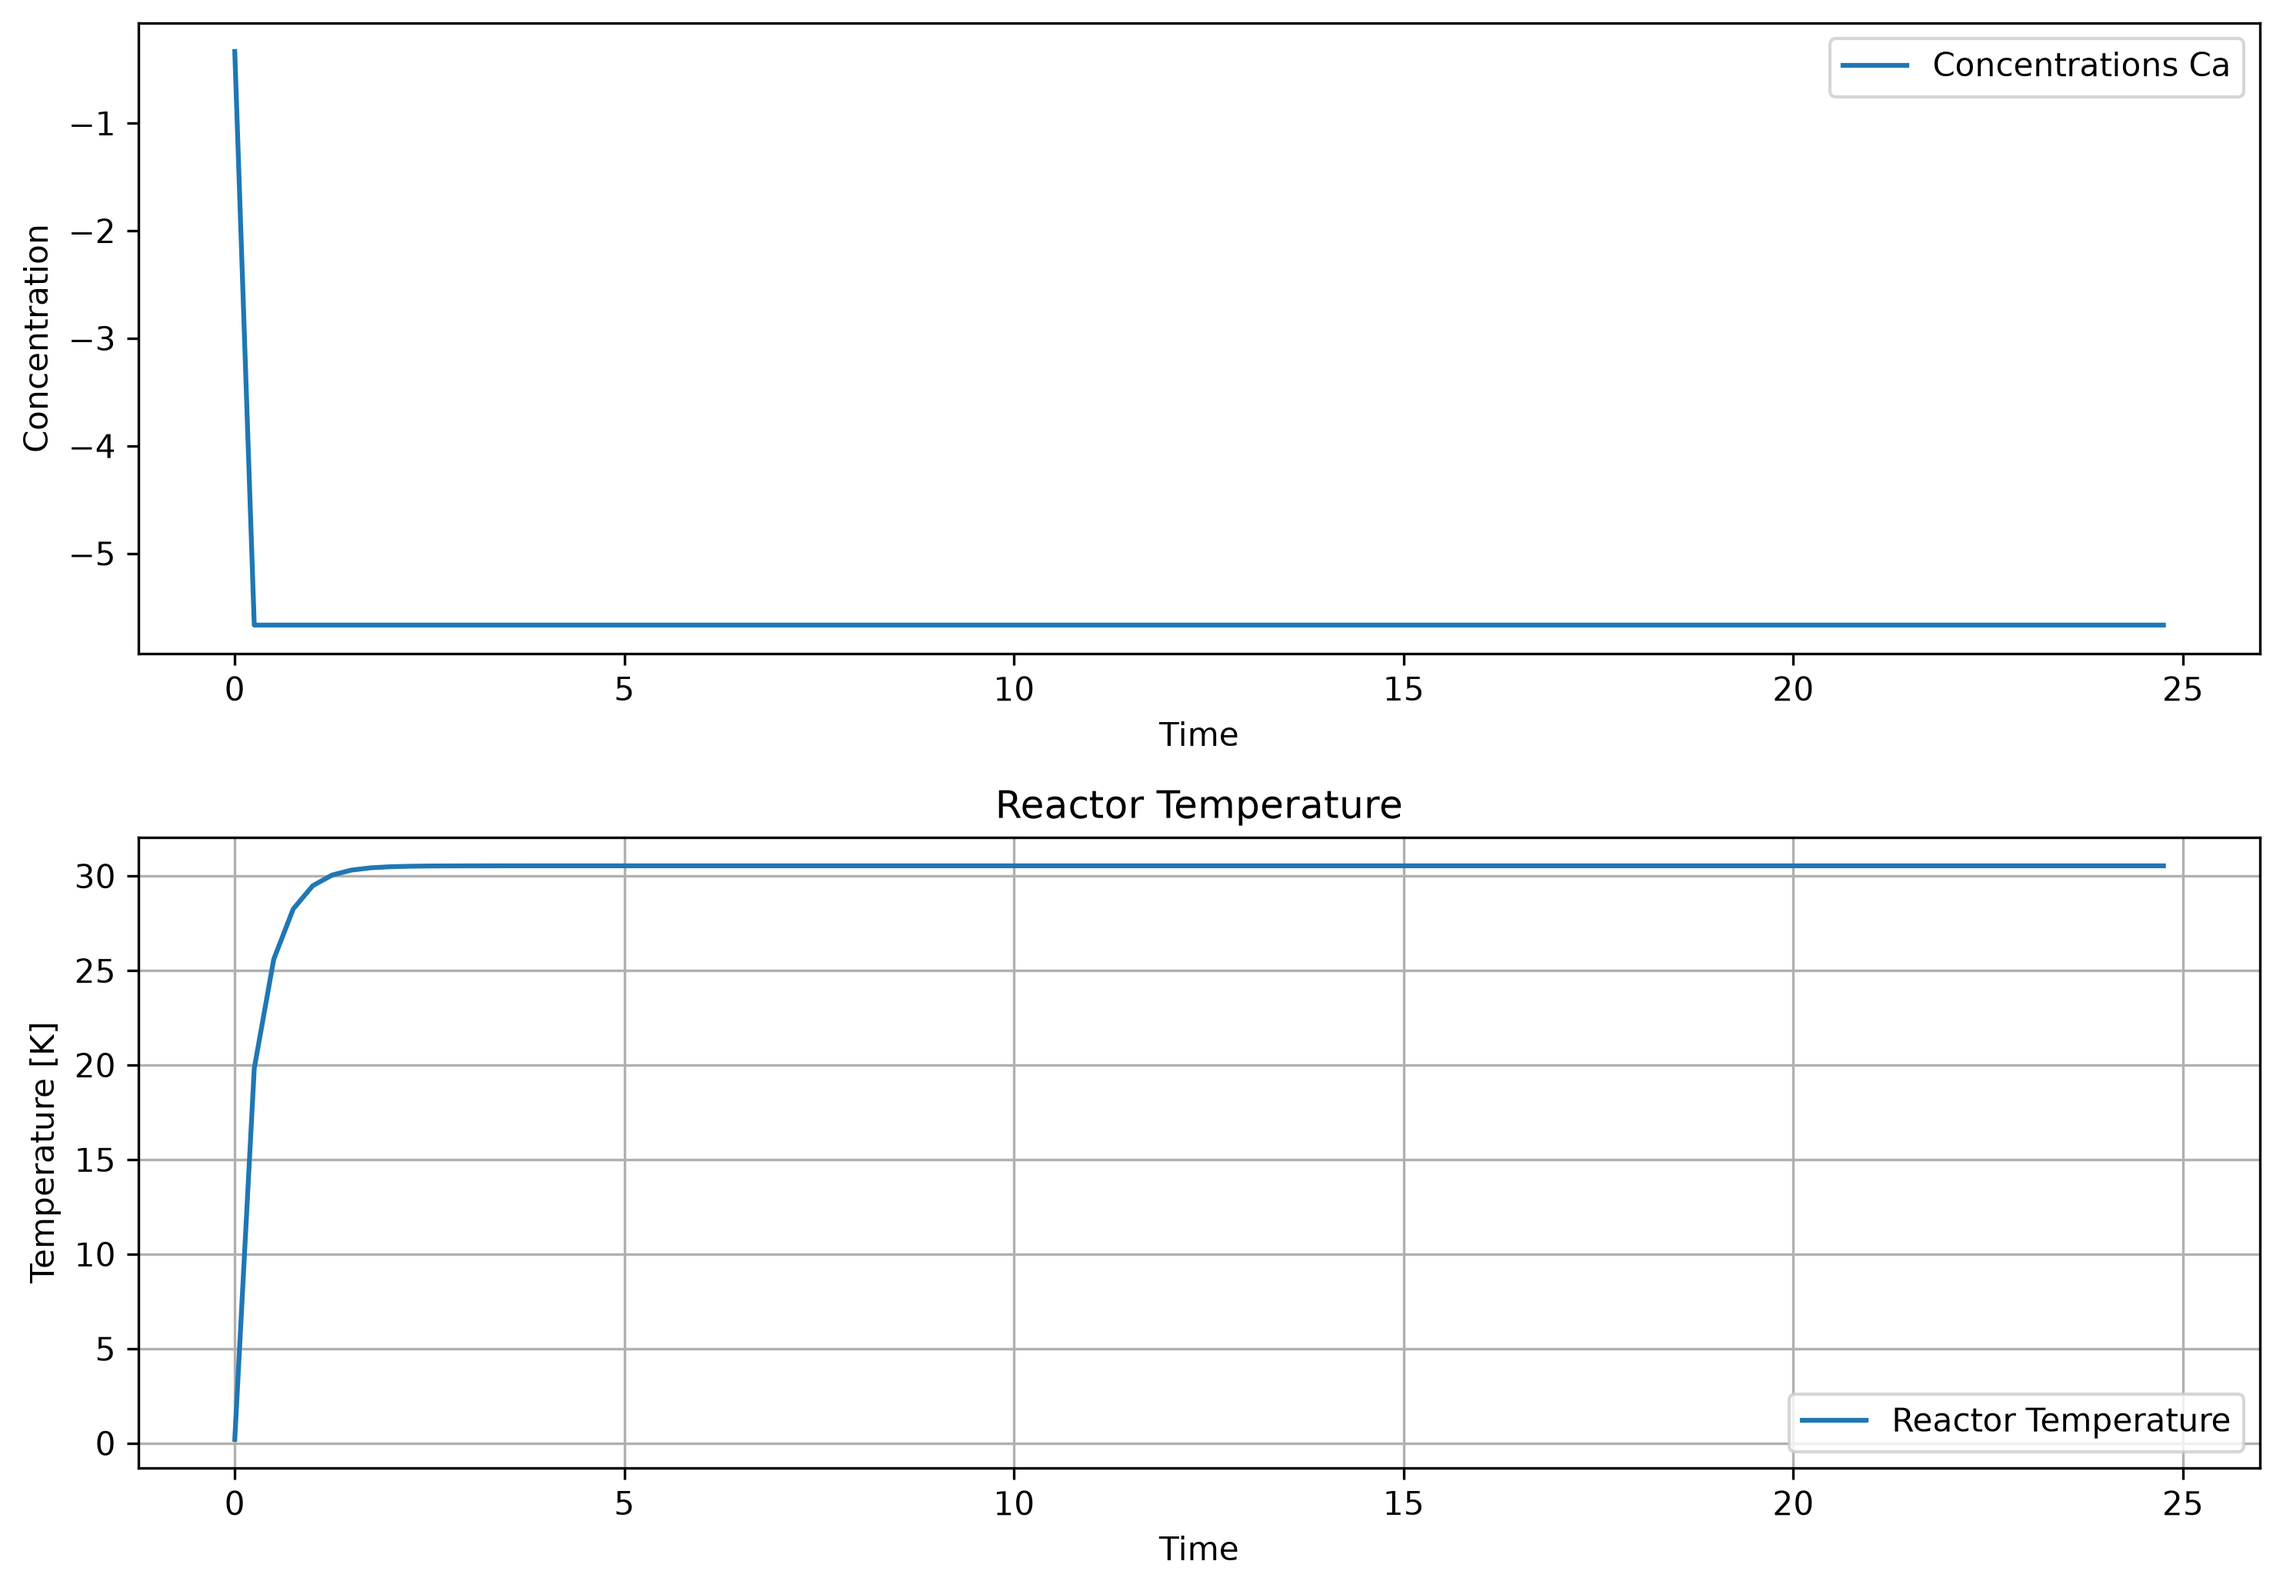
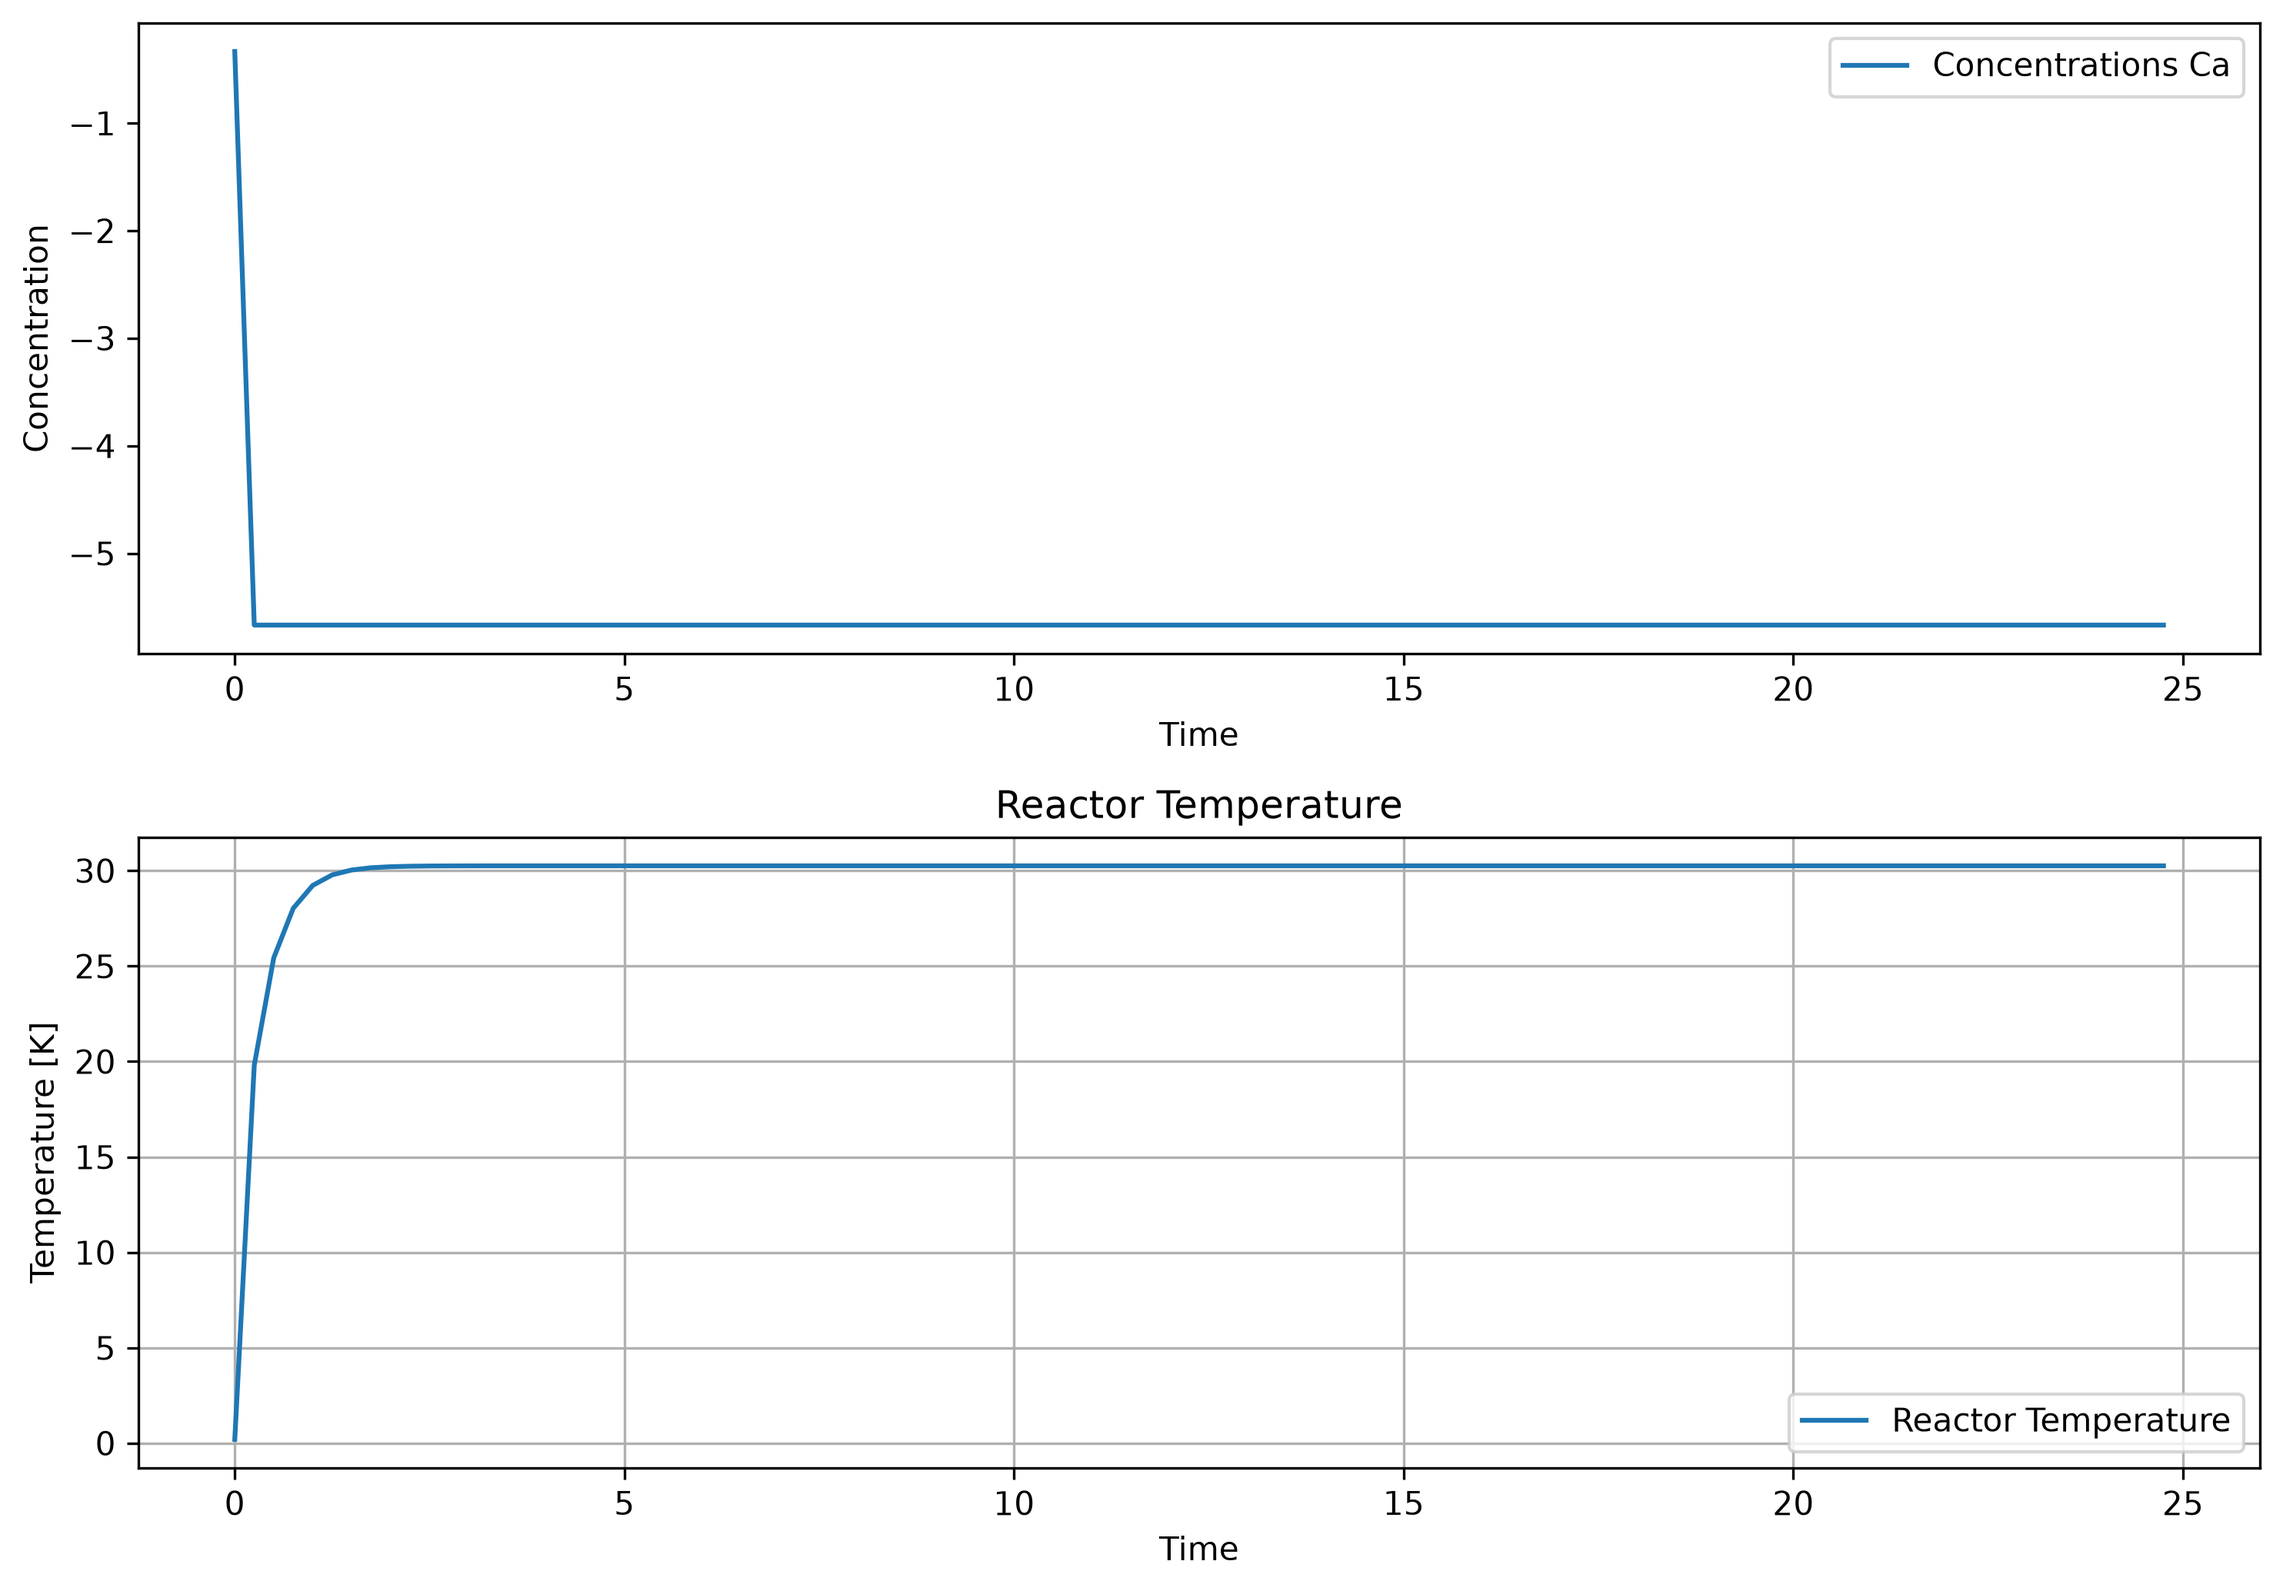
imitate the  VAE code of World Model with images as inputs

diff --git a/ex_WorldModel.py b/ex_WorldModel.py
@@ -1,0 +1,55 @@
+import tensorflow as tf
+import tensorflow.keras as keras
+from tensorflow.keras import layers as kl
+import numpy as np
+
+class _VAE(keras.Model):    # keras.Model : NNのlayerをまとめて、学習・推論・評価・保存などの機能を提供する中心的なクラス
+    def __init__(self):     # self : 現在操作しているインスタンス自身を参照する変数
+        super().__init__()
+
+        self.z_size = 32 # 潜在空間のサイズ
+
+        # --- encoder
+        input_shape = (64, 64, 3)
+        in_layer = c = kl.Input(shape=input_shape)  # 右辺の結果を両方の変数に代入, Input()の引数shapeに値を渡している。
+        c = kl.Conv2D(filters=32, kernel_size=4, strides=2, activation="relu")(c)
+        c = kl.Conv2D(filters=64, kernel_size=4, strides=2, activation="relu")(c)
+        c = kl.Conv2D(filters=128, kernel_size=4, strides=2, activation="relu")(c)
+        c = kl.Conv2D(filters=256, kernel_size=4, strides=2, activation="relu")(c)
+        c = kl.Flatten()(c) # 多次元のデータを１次元に変換する層を適用
+        z_mean = kl.Dense(self.z_size)(c)   #
+        z_log_var = kl.Dense(self.z_size)(c)
+        self.encoder = keras.Model(in_layer, [z_mean, z_log_var])   # model = keras.Model(inputs, outputs)
+
+        # --- decoder
+        in_state = c = kl.Input(shape=(self.z_size,))
+        c = kl.Dense(2 * 2* 256, activation="relu")(c)
+        c = kl.Reshape((1, 1, 2 * 2 * 256))(c)
+        c = kl.Conv2DTranspose(128, kernel_size=5, strides=2, padding="valid", activation="relu")(c)    # Conv2DTranspose : 転置畳み込み、空間サイズを大きくする
+        c = kl.Conv2DTranspose(64, kernel_size=5, strides=2, padding="valid", activation="relu")(c)
+        c = kl.Conv2DTranspose(32, kernel_size=6, strides=2, padding="valid", activation="relu")(c)
+        c = kl.Conv2DTranspose(3, kernel_size=6, strides=2, padding="valid", activation="sigmoid")(c)   # sigmoid関数で出力値を0~1に収める
+        self.decoder = keras.Model(in_state, c)
+
+    def call(self, x):
+        return self.decode(self.encode(x))
+
+    def encode(self, x, training=False):
+        z_mean, z_log_var = self.encoder(x, training=training)
+
+        # reparameterize
+        e = tf.random.normal(z_mean.shape)
+        z = z_mean + tf.exp(0.5 * z_log_var) * e
+
+        if training:
+            return z_mean, z_log_var, z
+        else:
+            return z
+
+    def decode(self, z, training=False):
+        return self.decoder(z, training=training)
+
+    def sample(self, size=1):
+        z = np.random.normal(size=(size, self.z_size))
+        return self.decode(z), z
+

diff --git a/WorldModel_RNN.py b/WorldModel_RNN.py
@@ -1,0 +1,45 @@
+from pcgym import make_env
+import pcgym
+import numpy as np
+from stable_baselines3 import PPO
+# import matplotlib
+# matplotlib.use("TkAgg")
+import matplotlib.pyplot as plt
+
+# Simulation variables
+nsteps = 10
+T = 26
+
+# Setpoint
+SP = {'Ca': [0.85 for i in range(int(nsteps/2))] + [0.9 for i in range(int(nsteps/2))]} 
+
+# Action and observation Space
+action_space = {'low': np.array([295]), 'high': np.array([302])}
+observation_space = {'low': np.array([0.7,300,0.8]),'high': np.array([1,350,0.9])}
+
+r_scale ={
+    'Ca': 1e3 #Reward scale for each state
+}
+env_params = {
+    'N': nsteps, # Number of time steps
+    'tsim':T, # Simulation Time
+    'SP':SP, # Setpoint
+    'o_space' : observation_space, # Observation space
+    'a_space' : action_space, # Action space
+    'x0': np.array([0.8,330,0.8]), # Initial conditions 
+    'model': 'cstr', # Select the model
+    'r_scale': r_scale, # Scale the L1 norm used for reward (|x-x_sp|*r_scale)
+    'normalise_a': True, # Normalise the actions
+    'normalise_o':True, # Normalise the states,
+    'noise':True, # Add noise to the states
+    'integration_method': 'casadi', # Select the integration method
+    'noise_percentage':0.001 # Noise percentage
+}
+env = make_env(env_params)
+
+# Policy Training
+nsteps_learning = 3e4
+PPO_policy = PPO('MlpPolicy', env, verbose=1,learning_rate=0.001).learn(nsteps_learning)
+
+# Policy Rollout and Plotting
+evaluator, data = env.plot_rollout({'PPO': PPO_policy}, reps = 10)

diff --git a/quick_start.py b/quick_start.py
@@ -29,7 +29,7 @@ env_params = {
 # Create environment
 env = pcgym.make_env(env_params)
 
-# Reset the environment
+# Reset the environment (normalized from environment to obserbation)
 obs, state = env.reset()
 
 print("Initial observation:", obs)
@@ -38,18 +38,47 @@ print("Initial observation:", obs)
 concentrations = [obs[0]]
 temperatures = [obs[1]]
 
-# Set a specific control variable
-action = np.array([298])
+# Proportional control parameter
+Kp = 10.0
+Tc_base = 298.0
 
 # Simulation
 for t in range(nsteps):
+    # Denormalization the current concentration
+    Ca = (obs[0] + 1) / 2 * (1.0 - 0.7) + 0.7
+
+    # Current target concentration
+    Ca_SP = SP['Ca'][t]
+
+    # Control error
+    error = Ca_SP - Ca
+
+    # Proportional control
+    Tc = Tc_base - Kp * error
+    # Tc = 298 - 0.5 = 297.5
+
+    # Control Variable Limits
+    Tc = np.clip(Tc, 295, 302)
+
+    # Control input
+    action = np.array([Tc])
+
     obs, rew, done, term, info = env.step(action)
 
     # preserve the observation
     concentrations.append(obs[0])
     temperatures.append(obs[1])
 
-    print(f"step {t+1}: observation={obs}, reward={rew}")
+    
+
+    print(
+        f"step={t+1}, "
+        f"Ca={Ca:.4f}, "
+        f"SP={Ca_SP:.4f}, "
+        f"Tc={Tc:.2f}, "
+        f"concentration={obs[0]:.4f}, "
+        f"temperatures={obs[1]:.4f}"
+    )
 
     if done or term:
         break
